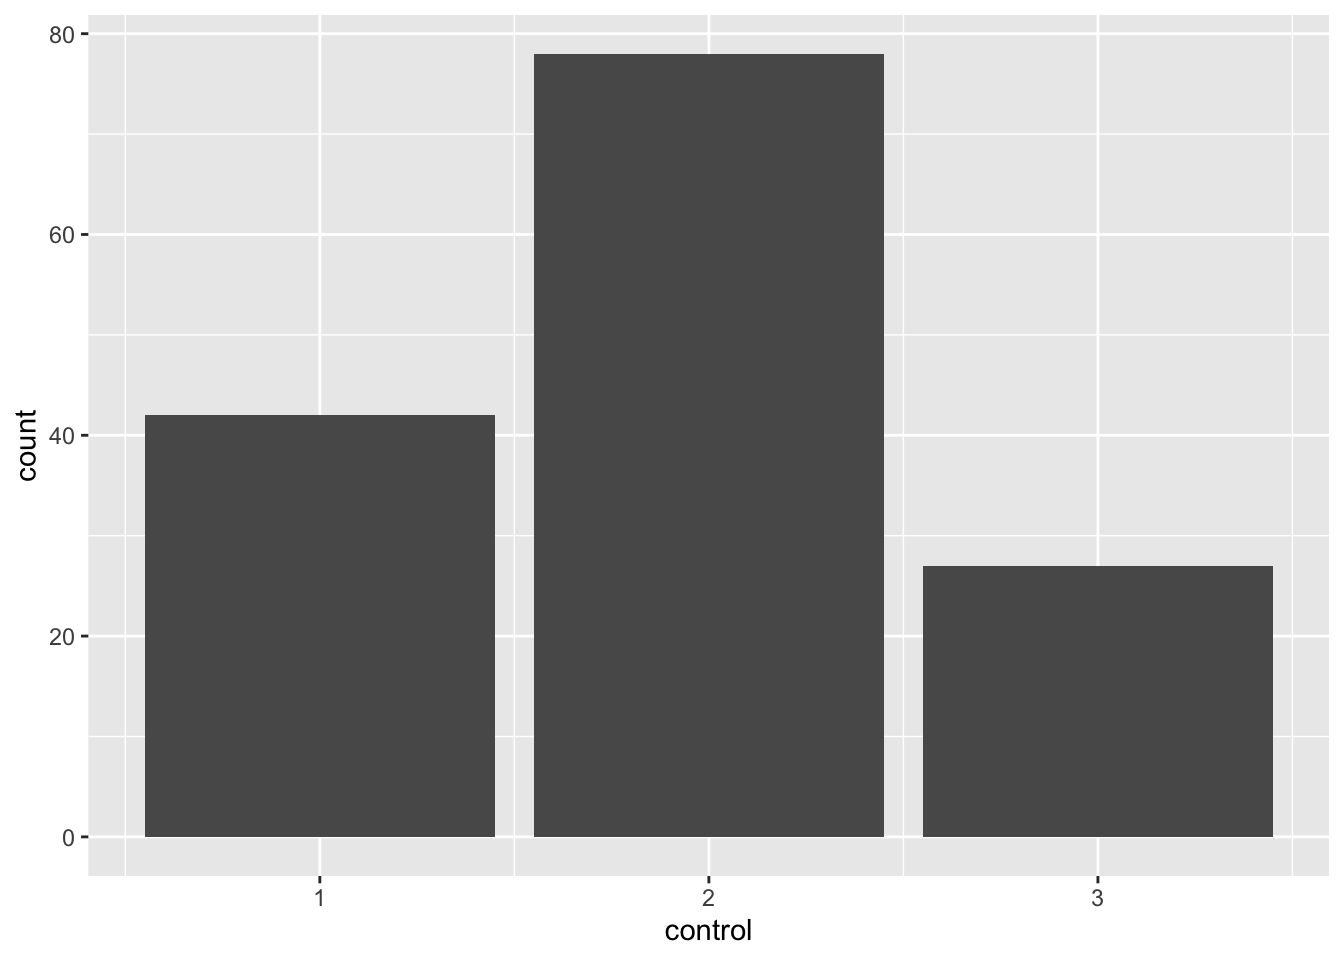
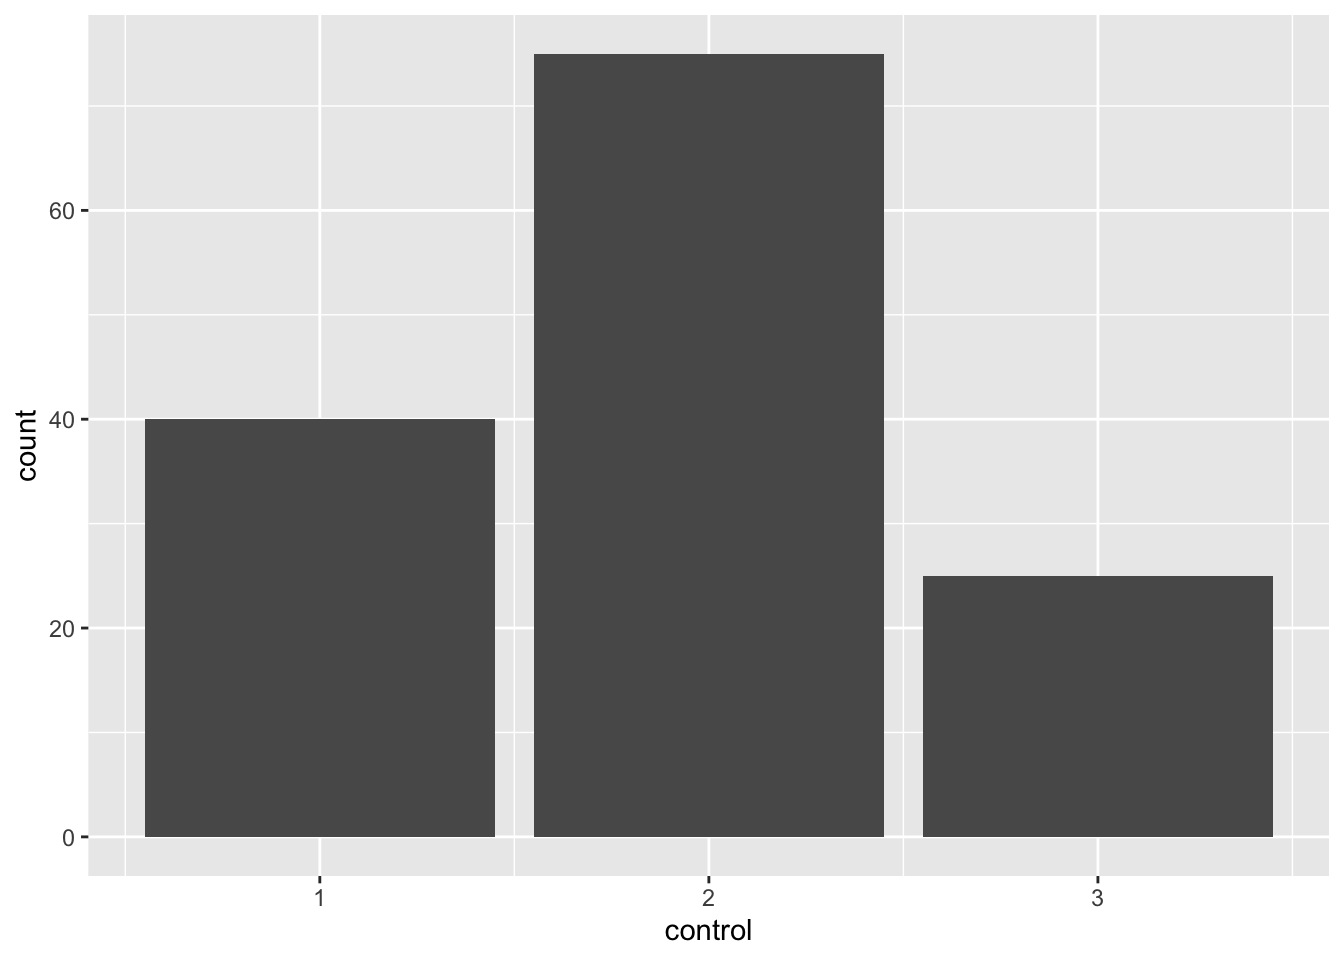
added labs folder

diff --git a/docs/labs/lab1.html b/docs/labs/lab1.html
@@ -299,7 +299,7 @@ pre > code.sourceCode > span > a:first-child::before { text-decoration: underlin
 <div class="cell-output-display">
 <div data-pagedtable="false">
   <script data-pagedtable-source="" type="application/json">
-{"columns":[{"label":["unitid"],"name":[1],"type":["int"],"align":["right"]},{"label":["instnm"],"name":[2],"type":["chr"],"align":["left"]},{"label":["city"],"name":[3],"type":["chr"],"align":["left"]},{"label":["highdeg"],"name":[4],"type":["int"],"align":["right"]},{"label":["control"],"name":[5],"type":["int"],"align":["right"]},{"label":["ugds"],"name":[6],"type":["int"],"align":["right"]},{"label":["adm_rate"],"name":[7],"type":["dbl"],"align":["right"]},{"label":["costt4_a"],"name":[8],"type":["int"],"align":["right"]},{"label":["costt4_p"],"name":[9],"type":["int"],"align":["right"]},{"label":["pcip27"],"name":[10],"type":["dbl"],"align":["right"]},{"label":["pctfloan"],"name":[11],"type":["dbl"],"align":["right"]},{"label":["admcon7"],"name":[12],"type":["int"],"align":["right"]},{"label":["wdraw_orig_yr2_rt"],"name":[13],"type":["lgl"],"align":["right"]},{"label":["cdr3"],"name":[14],"type":["dbl"],"align":["right"]},{"label":["year"],"name":[15],"type":["dbl"],"align":["right"]}],"data":[{"1":"164368","2":"Hult International Business School","3":"Cambridge","4":"4","5":"2","6":"682","7":"0.4774","8":"74000","9":"NA","10":"0.000","11":"0.0956","12":"3","13":"NA","14":"0","15":"2022"},{"1":"164447","2":"American International College","3":"Springfield","4":"4","5":"2","6":"1142","7":"0.8936","8":"53236","9":"NA","10":"0.000","11":"0.8012","12":"5","13":"NA","14":"0","15":"2022"},{"1":"164465","2":"Amherst College","3":"Amherst","4":"3","5":"2","6":"1898","7":"0.0726","8":"80060","9":"NA","10":"0.095","11":"0.1123","12":"5","13":"NA","14":"0","15":"2022"},{"1":"164492","2":"Anna Maria College","3":"Paxton","4":"4","5":"2","6":"991","7":"0.9466","8":"55594","9":"NA","10":"0.000","11":"0.6997","12":"3","13":"NA","14":"0","15":"2022"},{"1":"164535","2":"Assabet Valley Regional Technical School","3":"Marlborough","4":"1","5":"1","6":"54","7":"0.4737","8":"NA","9":"42983","10":"0.000","11":"0.5400","12":"3","13":"NA","14":"0","15":"2022"},{"1":"164562","2":"Assumption University","3":"Worcester","4":"4","5":"2","6":"1676","7":"0.8230","8":"60262","9":"NA","10":"0.015","11":"0.8273","12":"5","13":"NA","14":"0","15":"2022"}],"options":{"columns":{"min":{},"max":[10]},"rows":{"min":[10],"max":[10]},"pages":{}}}
+{"columns":[{"label":["unitid"],"name":[1],"type":["int"],"align":["right"]},{"label":["instnm"],"name":[2],"type":["chr"],"align":["left"]},{"label":["city"],"name":[3],"type":["chr"],"align":["left"]},{"label":["highdeg"],"name":[4],"type":["int"],"align":["right"]},{"label":["control"],"name":[5],"type":["int"],"align":["right"]},{"label":["ugds"],"name":[6],"type":["int"],"align":["right"]},{"label":["adm_rate"],"name":[7],"type":["dbl"],"align":["right"]},{"label":["costt4_a"],"name":[8],"type":["int"],"align":["right"]},{"label":["costt4_p"],"name":[9],"type":["int"],"align":["right"]},{"label":["pcip27"],"name":[10],"type":["dbl"],"align":["right"]},{"label":["pctfloan"],"name":[11],"type":["dbl"],"align":["right"]},{"label":["admcon7"],"name":[12],"type":["int"],"align":["right"]},{"label":["wdraw_orig_yr2_rt"],"name":[13],"type":["lgl"],"align":["right"]},{"label":["cdr3"],"name":[14],"type":["dbl"],"align":["right"]},{"label":["year"],"name":[15],"type":["dbl"],"align":["right"]}],"data":[{"1":"164368","2":"Hult International Business School","3":"Cambridge","4":"4","5":"2","6":"682","7":"0.4774","8":"74000","9":"NA","10":"0.000","11":"0.0956","12":"3","13":"NA","14":"0","15":"2022"},{"1":"164447","2":"American International College","3":"Springfield","4":"4","5":"2","6":"1142","7":"0.8936","8":"53236","9":"NA","10":"0.000","11":"0.8012","12":"5","13":"NA","14":"0","15":"2022"},{"1":"164465","2":"Amherst College","3":"Amherst","4":"3","5":"2","6":"1898","7":"0.0726","8":"80060","9":"NA","10":"0.095","11":"0.1123","12":"5","13":"NA","14":"0","15":"2022"},{"1":"164492","2":"Anna Maria College","3":"Paxton","4":"4","5":"2","6":"991","7":"0.9466","8":"55594","9":"NA","10":"0.000","11":"0.6997","12":"3","13":"NA","14":"0","15":"2022"},{"1":"164535","2":"Assabet Valley Regional Technical School","3":"Marlborough","4":"0","5":"1","6":"54","7":"0.4737","8":"NA","9":"42983","10":"0.000","11":"0.5400","12":"3","13":"NA","14":"0","15":"2022"},{"1":"164562","2":"Assumption University","3":"Worcester","4":"4","5":"2","6":"1676","7":"0.8230","8":"60262","9":"NA","10":"0.015","11":"0.8273","12":"5","13":"NA","14":"0","15":"2022"}],"options":{"columns":{"min":{},"max":[10]},"rows":{"min":[10],"max":[10]},"pages":{}}}
   </script>
 </div>
 </div>
@@ -308,22 +308,22 @@ pre > code.sourceCode > span > a:first-child::before { text-decoration: underlin
 <div class="cell" data-document="show">
 <div class="sourceCode cell-code" id="cb3"><pre class="sourceCode r code-with-copy"><code class="sourceCode r"><span id="cb3-1"><a href="#cb3-1" aria-hidden="true" tabindex="-1"></a><span class="fu">str</span>(scorecard)</span></code><button title="Copy to Clipboard" class="code-copy-button"><i class="bi"></i></button></pre></div>
 <div class="cell-output cell-output-stdout">
-<pre><code>tibble [147 × 15] (S3: tbl_df/tbl/data.frame)
- $ unitid           : int [1:147] 164368 164447 164465 164492 164535 164562 164580 164599 164614 164632 ...
- $ instnm           : chr [1:147] "Hult International Business School" "American International College" "Amherst College" "Anna Maria College" ...
- $ city             : chr [1:147] "Cambridge" "Springfield" "Amherst" "Paxton" ...
- $ highdeg          : int [1:147] 4 4 3 4 1 4 4 1 3 4 ...
- $ control          : int [1:147] 2 2 2 2 1 2 2 3 2 2 ...
- $ ugds             : int [1:147] 682 1142 1898 991 54 1676 2709 26 39 1263 ...
- $ adm_rate         : num [1:147] 0.4774 0.8936 0.0726 0.9466 0.4737 ...
- $ costt4_a         : int [1:147] 74000 53236 80060 55594 NA 60262 76360 NA 26691 46775 ...
- $ costt4_p         : int [1:147] NA NA NA NA 42983 NA NA NA NA NA ...
- $ pcip27           : num [1:147] 0 0 0.095 0 0 0.015 0 0 0 0 ...
- $ pctfloan         : num [1:147] 0.0956 0.8012 0.1123 0.6997 0.54 ...
- $ admcon7          : int [1:147] 3 5 5 3 3 5 5 NA 5 5 ...
- $ wdraw_orig_yr2_rt: logi [1:147] NA NA NA NA NA NA ...
- $ cdr3             : num [1:147] 0 0 0 0 0 0 0 0.029 0.017 0 ...
- $ year             : num [1:147] 2022 2022 2022 2022 2022 ...</code></pre>
+<pre><code>tibble [140 × 15] (S3: tbl_df/tbl/data.frame)
+ $ unitid           : int [1:140] 164368 164447 164465 164492 164535 164562 164580 164614 164632 164739 ...
+ $ instnm           : chr [1:140] "Hult International Business School" "American International College" "Amherst College" "Anna Maria College" ...
+ $ city             : chr [1:140] "Cambridge" "Springfield" "Amherst" "Paxton" ...
+ $ highdeg          : int [1:140] 4 4 3 4 0 4 4 3 4 4 ...
+ $ control          : int [1:140] 2 2 2 2 1 2 2 2 2 2 ...
+ $ ugds             : int [1:140] 682 1142 1898 991 54 1676 2709 39 1263 4070 ...
+ $ adm_rate         : num [1:140] 0.4774 0.8936 0.0726 0.9466 0.4737 ...
+ $ costt4_a         : int [1:140] 74000 53236 80060 55594 NA 60262 76360 26691 46775 74902 ...
+ $ costt4_p         : int [1:140] NA NA NA NA 42983 NA NA NA NA NA ...
+ $ pcip27           : num [1:140] 0 0 0.095 0 0 0.015 0 0 0 0.0035 ...
+ $ pctfloan         : num [1:140] 0.0956 0.8012 0.1123 0.6997 0.54 ...
+ $ admcon7          : int [1:140] 3 5 5 3 3 5 5 5 5 5 ...
+ $ wdraw_orig_yr2_rt: logi [1:140] NA NA NA NA NA NA ...
+ $ cdr3             : num [1:140] 0 0 0 0 0 0 0 0.017 0 0 ...
+ $ year             : num [1:140] 2022 2022 2022 2022 2022 ...</code></pre>
 </div>
 </div>
 <p>You can also click on the name of your data frame in your Environment panel in RStudio, and it will open a new tab in RStudio that displays the data in a tabular format. Try clicking on <code>scorecard</code> in your Environment panel.</p>
@@ -496,20 +496,20 @@ Why not use name as a unique key?
  [91] TRUE TRUE TRUE TRUE TRUE TRUE TRUE TRUE TRUE TRUE TRUE TRUE TRUE TRUE TRUE
 [106] TRUE TRUE TRUE TRUE TRUE TRUE TRUE TRUE TRUE TRUE TRUE TRUE TRUE TRUE TRUE
 [121] TRUE TRUE TRUE TRUE TRUE TRUE TRUE TRUE TRUE TRUE TRUE TRUE TRUE TRUE TRUE
-[136] TRUE TRUE TRUE TRUE TRUE TRUE TRUE TRUE TRUE TRUE TRUE TRUE</code></pre>
+[136] TRUE TRUE TRUE TRUE TRUE</code></pre>
 </div>
 </div>
 <p>When we <code>sum()</code> across a logical vector, <code>R</code> will calculate the number of <code>TRUE</code> values in the vector.</p>
 <div class="cell">
 <div class="sourceCode cell-code" id="cb15"><pre class="sourceCode r code-with-copy"><code class="sourceCode r"><span id="cb15-1"><a href="#cb15-1" aria-hidden="true" tabindex="-1"></a><span class="fu">sum</span>(<span class="fu">is.na</span>(scorecard<span class="sc">$</span>wdraw_orig_yr2_rt))</span></code><button title="Copy to Clipboard" class="code-copy-button"><i class="bi"></i></button></pre></div>
 <div class="cell-output cell-output-stdout">
-<pre><code>[1] 147</code></pre>
+<pre><code>[1] 140</code></pre>
 </div>
 <div class="sourceCode cell-code" id="cb17"><pre class="sourceCode r code-with-copy"><code class="sourceCode r"><span id="cb17-1"><a href="#cb17-1" aria-hidden="true" tabindex="-1"></a><span class="co"># Note that this is the same as:</span></span>
 <span id="cb17-2"><a href="#cb17-2" aria-hidden="true" tabindex="-1"></a></span>
 <span id="cb17-3"><a href="#cb17-3" aria-hidden="true" tabindex="-1"></a>scorecard<span class="sc">$</span>wdraw_orig_yr2_rt <span class="sc">|&gt;</span> <span class="fu">is.na</span>() <span class="sc">|&gt;</span> <span class="fu">sum</span>()</span></code><button title="Copy to Clipboard" class="code-copy-button"><i class="bi"></i></button></pre></div>
 <div class="cell-output cell-output-stdout">
-<pre><code>[1] 147</code></pre>
+<pre><code>[1] 140</code></pre>
 </div>
 </div>
 <section id="question-4" class="level6">
